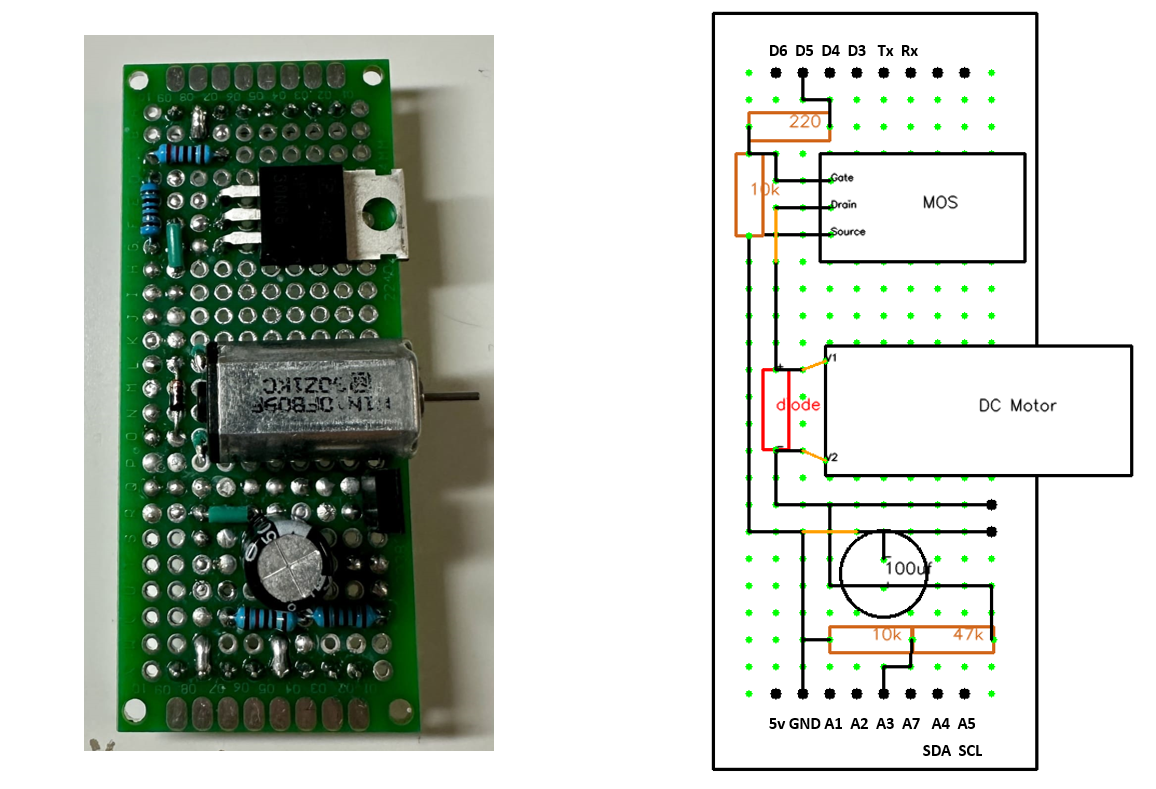
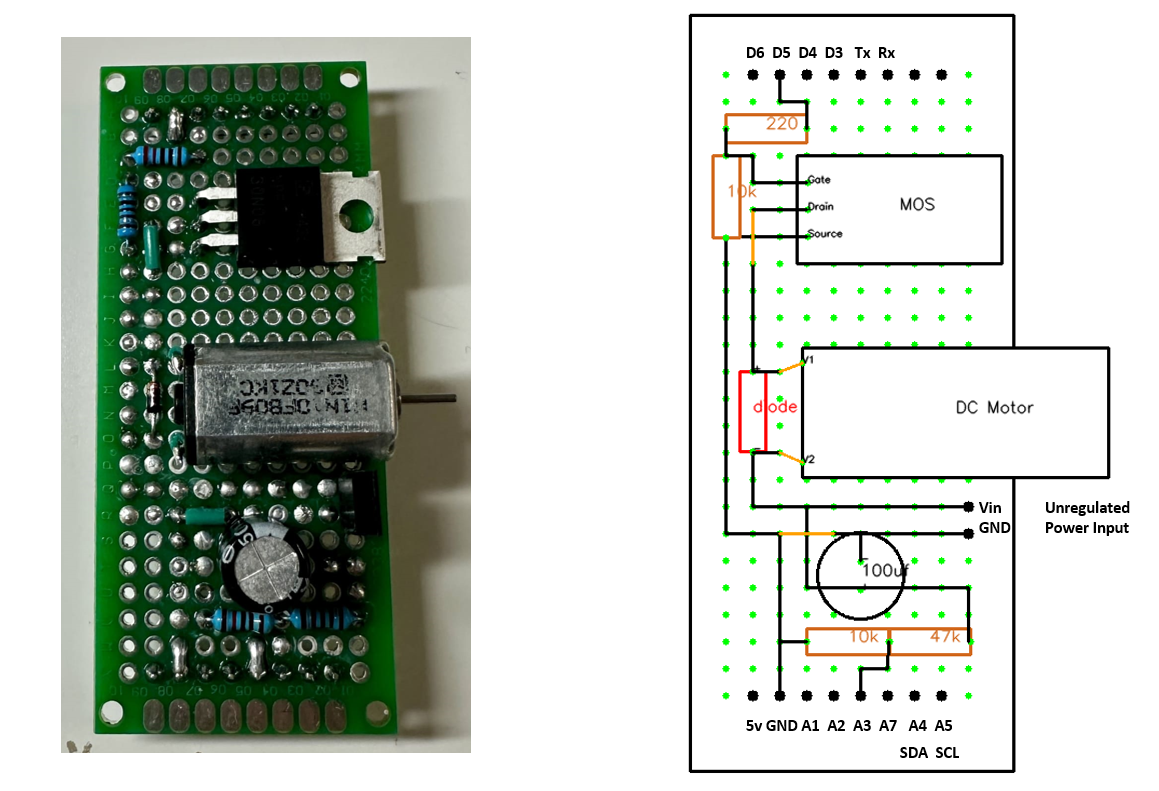
modified the dc motor module doc

Changed region(s): [[0.0311, 0.0304, 0.436, 0.9734], [0.5917, 0.0, 0.9965, 1.0], [0.8097, 0.4867, 0.9031, 0.5475]]

diff --git a/src/module/dc_motor_module/README.md b/src/module/dc_motor_module/README.md
@@ -10,7 +10,8 @@ The motor speed is controled by PWM using the Arduino analogWrite
 function.
 
 To use the module, plug in the DC Motor Module into the Right slot
-of BananaKit2.
+of BananaKit2. Use two jumper cables to supply 7.4v unregulated power
+from the Power Supply Module to the DC Motor Module.
 
 Turn on `#define ENABLE_DC_MOTOR_MODULE` in `src/bananakit.h`, re-compile
 the firmware in `examples/BananaKit2/BananaKit2.ino` and upload the
